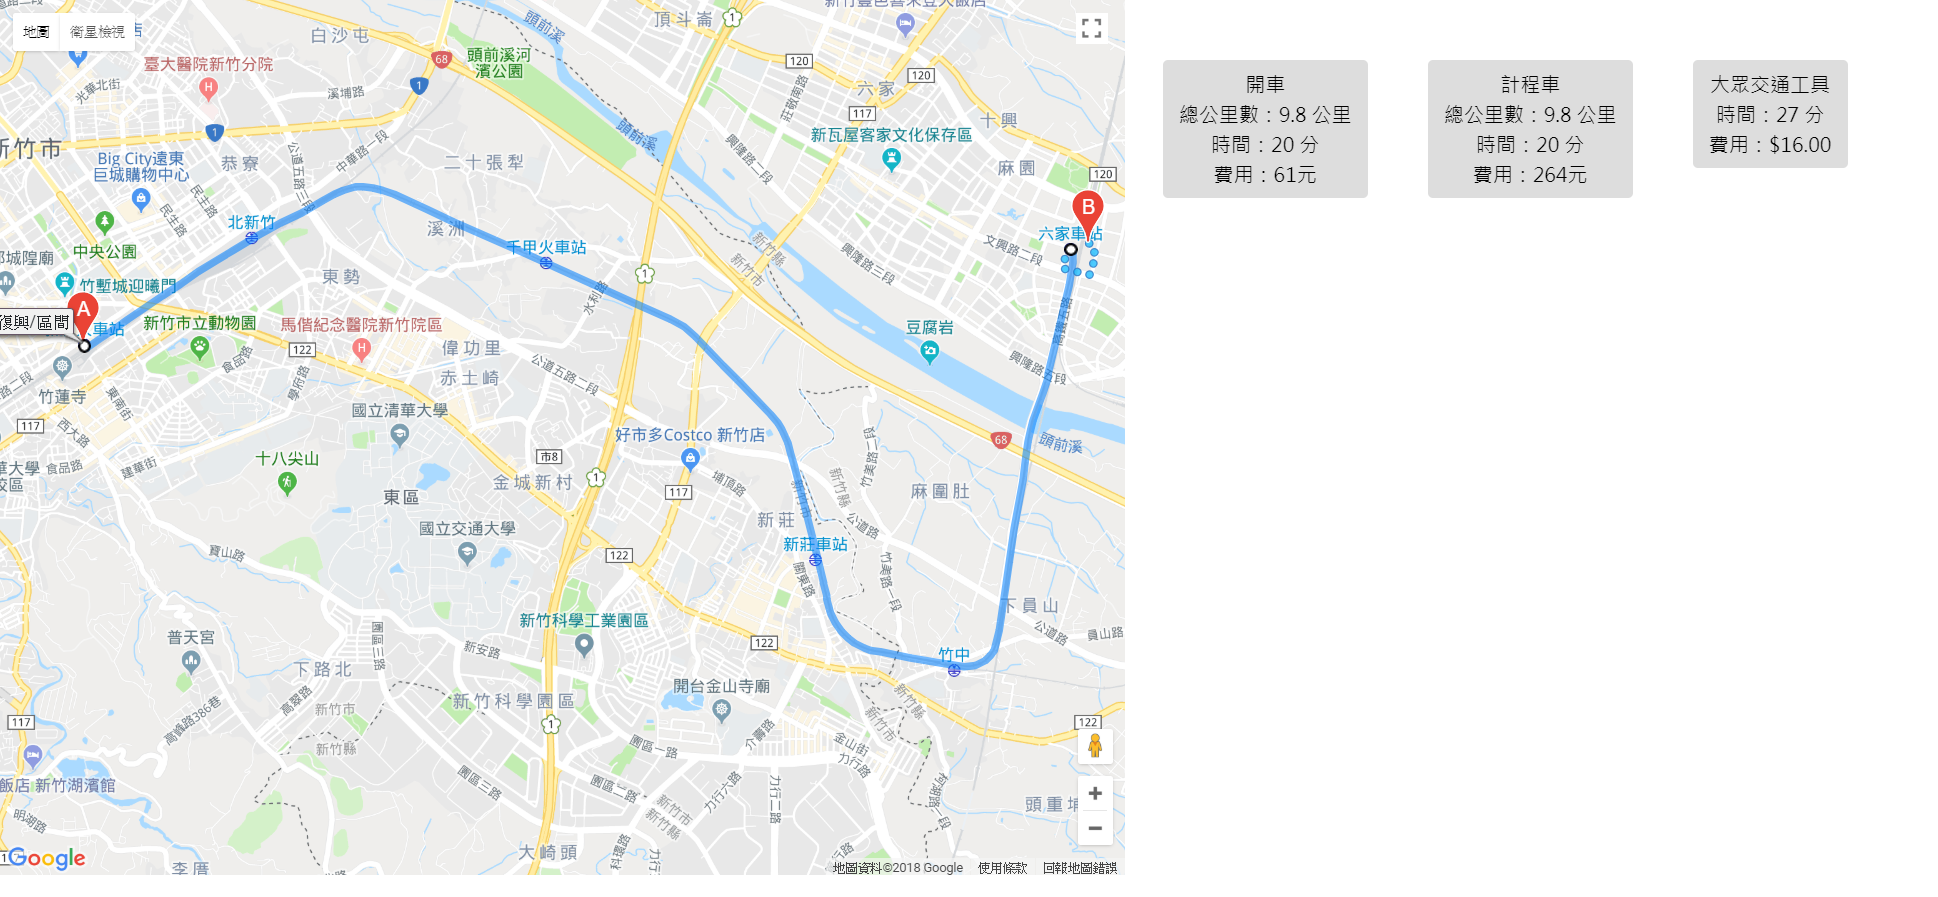
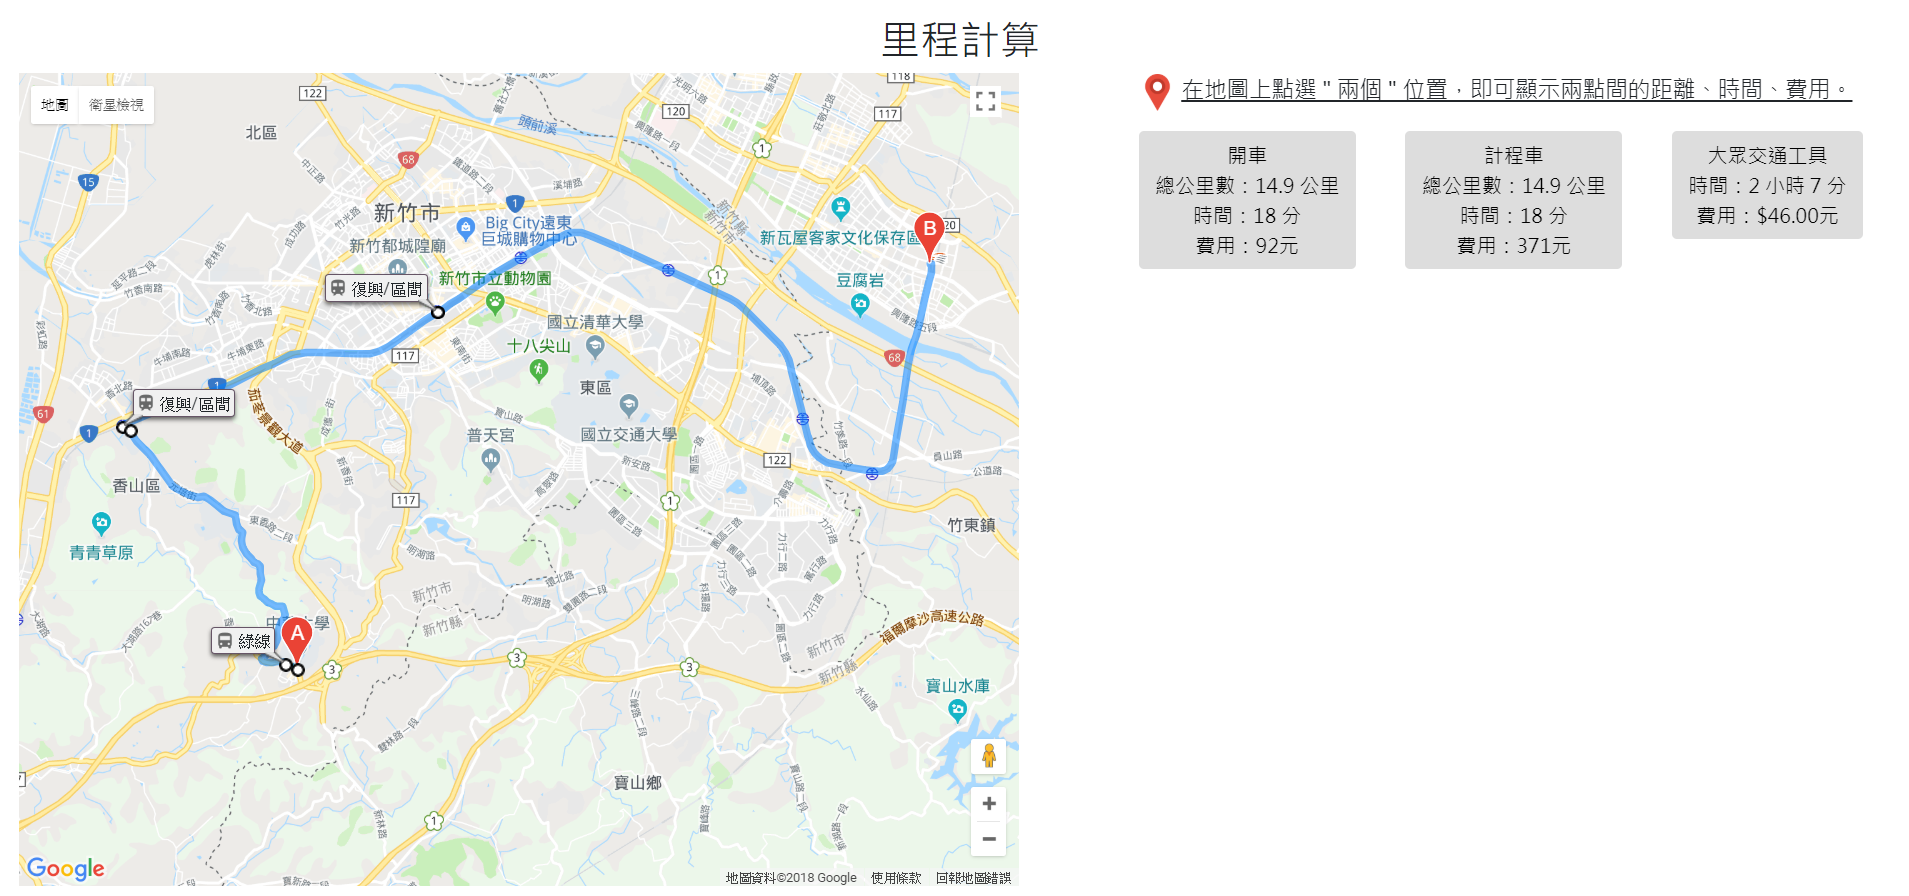
整理作品

Changed region(s): [[0.0, 0.0, 0.989, 1.0]]

diff --git a/Mileage calculation/index.html b/Mileage calculation/index.html
@@ -34,7 +34,11 @@
             <div class="col">
                 <div class="row">
                     <div class="col">
-                        <p><img src="https://github.com/Tsai-Peijin/BuildSchool2018/blob/master/Mileage%20calculation/icon.jpg?raw=true" alt="">在地圖上點選兩個位置，即可顯示兩點間的距離、時間、費用。</p>
+
+                        <img src="https://github.com/Tsai-Peijin/BuildSchool2018/blob/master/Mileage%20calculation/icon.png?raw=true" alt="" width="30px">
+                        <u>
+                            <span style="font-size:18px;">在地圖上點選 " 兩個 " 位置，即可顯示兩點間的距離、時間、費用。</span>
+                        </u>
                     </div>
                 </div>
                 <div class="row">
